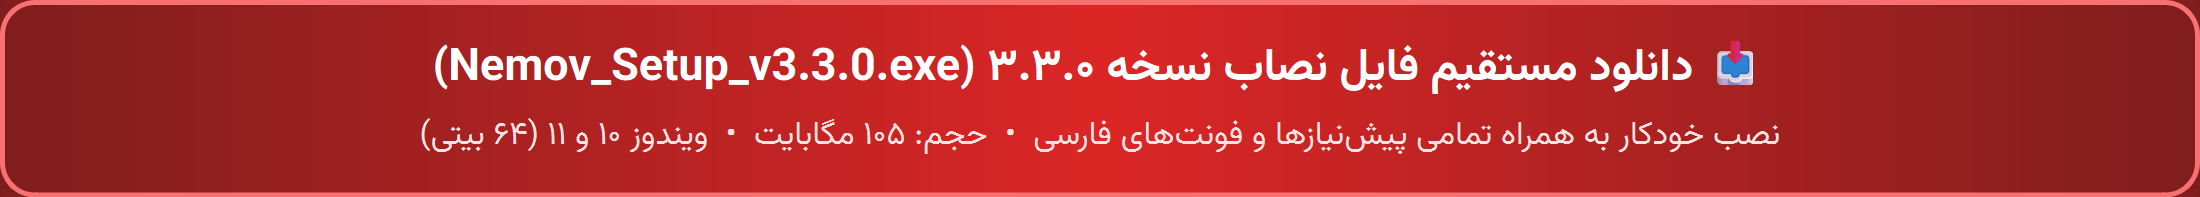
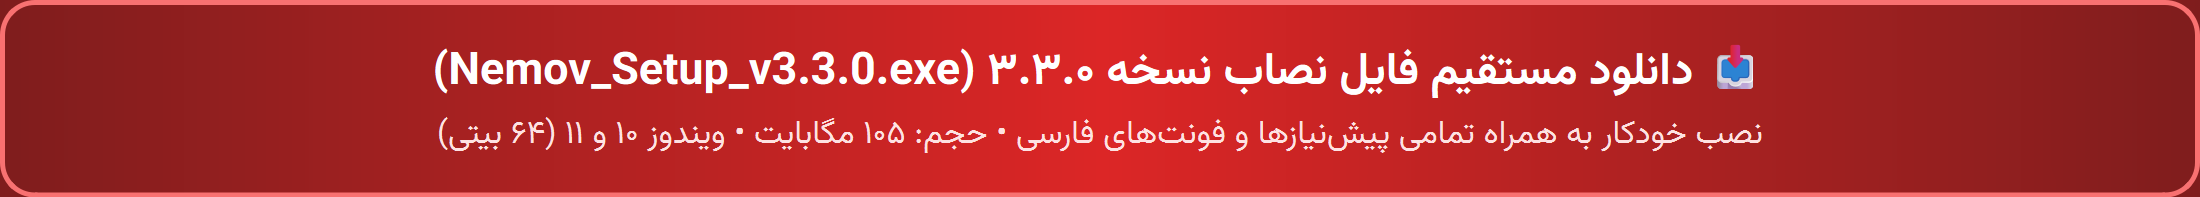
docs(readme): enforce strict right-to-left layout and alignment across all showcase cards

Changed region(s): [[0.1855, 0.2437, 0.8036, 0.4873], [0.1855, 0.6091, 0.8345, 0.7919]]

diff --git a/scripts/render_github_vazirmatn_cards.py b/scripts/render_github_vazirmatn_cards.py
@@ -50,6 +50,7 @@ def make_badge(text: str, bg: str, fg: str, border: str) -> QLabel:
 
 def make_section_header(title_text: str) -> QFrame:
     frame = QFrame()
+    frame.setLayoutDirection(Qt.LayoutDirection.RightToLeft)
     frame.setStyleSheet("""
         QFrame {
             background: transparent;
@@ -78,6 +79,7 @@ def make_section_header(title_text: str) -> QFrame:
 
 def make_feature_table(rows_data: list) -> QFrame:
     tbl = QFrame()
+    tbl.setLayoutDirection(Qt.LayoutDirection.RightToLeft)
     tbl.setObjectName("featTable")
     tbl.setStyleSheet("""
         QFrame#featTable {
@@ -92,6 +94,7 @@ def make_feature_table(rows_data: list) -> QFrame:
 
     # Header row
     hdr = QFrame()
+    hdr.setLayoutDirection(Qt.LayoutDirection.RightToLeft)
     hdr.setStyleSheet("""
         QFrame {
             background-color: #21262D;
@@ -119,6 +122,7 @@ def make_feature_table(rows_data: list) -> QFrame:
 
     for idx, (col1, col2) in enumerate(rows_data):
         row_f = QFrame()
+        row_f.setLayoutDirection(Qt.LayoutDirection.RightToLeft)
         is_last = (idx == len(rows_data) - 1)
         bg_col = "#161B22" if idx % 2 == 0 else "#13181E"
         b_bottom = "none" if is_last else "1px solid #262C36"
@@ -134,13 +138,15 @@ def make_feature_table(rows_data: list) -> QFrame:
         rlay.setContentsMargins(18, 14, 18, 14)
         rlay.setSpacing(16)
 
-        c1 = QLabel(col1)
+        c1 = QLabel()
+        c1.setText(f"<div dir='rtl' align='right' style='text-align: right;'>{col1.replace(chr(10), '<br/>')}</div>")
         c1.setFixedWidth(230)
         c1.setWordWrap(True)
         c1.setAlignment(Qt.AlignmentFlag.AlignRight | Qt.AlignmentFlag.AlignVCenter)
         c1.setStyleSheet(f"color: #FFFFFF; font-family: '{FONT_FAMILY}'; font-size: 13px; font-weight: bold; border: none; background: transparent;")
 
-        c2 = QLabel(col2)
+        c2 = QLabel()
+        c2.setText(f"<div dir='rtl' align='right' style='text-align: right;'>{col2}</div>")
         c2.setWordWrap(True)
         c2.setAlignment(Qt.AlignmentFlag.AlignRight | Qt.AlignmentFlag.AlignVCenter)
         c2.setStyleSheet(f"color: #D0D7DE; font-family: '{FONT_FAMILY}'; font-size: 13px; border: none; background: transparent;")
@@ -155,6 +161,7 @@ def make_feature_table(rows_data: list) -> QFrame:
 def build_download_button() -> QWidget:
     w = QFrame()
     w.setFixedSize(880, 84)
+    w.setLayoutDirection(Qt.LayoutDirection.RightToLeft)
     w.setObjectName("dlBtn")
     w.setStyleSheet("""
         QFrame#dlBtn {
@@ -165,14 +172,16 @@ def build_download_button() -> QWidget:
         }
     """)
     lay = QVBoxLayout(w)
-    lay.setContentsMargins(20, 12, 20, 12)
+    lay.setContentsMargins(24, 12, 24, 12)
     lay.setSpacing(4)
 
-    t1 = QLabel("📥 دانلود مستقیم فایل نصاب نسخه ۳.۳.۰ (Nemov_Setup_v3.3.0.exe)")
+    t1 = QLabel()
+    t1.setText("<div align='center'>📥 دانلود مستقیم فایل نصاب نسخه ۳.۳.۰ (Nemov_Setup_v3.3.0.exe)</div>")
     t1.setAlignment(Qt.AlignmentFlag.AlignCenter)
     t1.setStyleSheet(f"color: #FFFFFF; font-family: '{FONT_FAMILY}'; font-size: 18px; font-weight: bold; background: transparent; border: none;")
 
-    t2 = QLabel("نصب خودکار به همراه تمامی پیشنیازها و فونتهای فارسی  •  حجم: ۱۰۵ مگابایت  •  ویندوز ۱۰ و ۱۱ (۶۴ بیتی)")
+    t2 = QLabel()
+    t2.setText("<div align='center'>نصب خودکار به همراه تمامی پیشنیازها و فونتهای فارسی  •  حجم: ۱۰۵ مگابایت  •  ویندوز ۱۰ و ۱۱ (۶۴ بیتی)</div>")
     t2.setAlignment(Qt.AlignmentFlag.AlignCenter)
     t2.setStyleSheet(f"color: #FEE2E2; font-family: '{FONT_FAMILY}'; font-size: 12.5px; background: transparent; border: none;")
 
@@ -183,6 +192,7 @@ def build_download_button() -> QWidget:
 
 def build_hero_box(is_release: bool = False) -> QFrame:
     hero = QFrame()
+    hero.setLayoutDirection(Qt.LayoutDirection.RightToLeft)
     hero.setObjectName("heroBox")
     hero.setStyleSheet("""
         QFrame#heroBox {
@@ -196,36 +206,33 @@ def build_hero_box(is_release: bool = False) -> QFrame:
     vlay.setContentsMargins(24, 22, 24, 22)
     vlay.setSpacing(12)
 
-    lbl_title = QLabel("🏆 نرمافزار جامع مدیریت ورزشی و باشگاهی «نِمُو» (Nemov)")
-    lbl_title.setAlignment(Qt.AlignmentFlag.AlignCenter)
+    lbl_title = QLabel()
+    lbl_title.setText("<div dir='rtl' align='right' style='text-align: right;'>🏆 نرمافزار جامع مدیریت ورزشی و باشگاهی «نِمُو» (Nemov)</div>")
+    lbl_title.setAlignment(Qt.AlignmentFlag.AlignRight | Qt.AlignmentFlag.AlignVCenter)
     lbl_title.setStyleSheet(f"color: #FFFFFF; font-family: '{FONT_FAMILY}'; font-size: 22px; font-weight: bold; background: transparent; border: none;")
 
-    lbl_en = QLabel("Nemov Sports & Gym Management Suite — v3.3.0")
-    lbl_en.setAlignment(Qt.AlignmentFlag.AlignCenter)
-    lbl_en.setLayoutDirection(Qt.LayoutDirection.LeftToRight)
+    lbl_en = QLabel()
+    lbl_en.setText("<div dir='rtl' align='right' style='text-align: right;'>Nemov Sports & Gym Management Suite — v3.3.0</div>")
+    lbl_en.setAlignment(Qt.AlignmentFlag.AlignRight | Qt.AlignmentFlag.AlignVCenter)
     lbl_en.setStyleSheet(f"color: #F87171; font-family: '{FONT_FAMILY}'; font-size: 14px; font-weight: bold; background: transparent; border: none;")
 
-    lbl_desc = QLabel(
-        "یک دستیار همهفنحریف، مدرن و کاملاً فارسی برای مربیان حرفهای و مدیران باشگاههای ورزشی؛\n"
-        "مجهز به موتور ۱۷ پالت رنگی، تنظیمات لوگو و برندینگ، طراحی تخصصی تمرین و تغذیه، پیامک هوشمند و همگامسازی ابری"
-    )
-    lbl_desc.setAlignment(Qt.AlignmentFlag.AlignCenter)
+    lbl_desc = QLabel()
+    lbl_desc.setText("<div dir='rtl' align='right' style='text-align: right;'>یک دستیار همهفنحریف، مدرن و کاملاً فارسی برای مربیان حرفهای و مدیران باشگاههای ورزشی؛<br/>مجهز به موتور ۱۷ پالت رنگی، تنظیمات لوگو و برندینگ، طراحی تخصصی تمرین و تغذیه، پیامک هوشمند و همگامسازی ابری</div>")
+    lbl_desc.setAlignment(Qt.AlignmentFlag.AlignRight | Qt.AlignmentFlag.AlignVCenter)
     lbl_desc.setWordWrap(True)
     lbl_desc.setStyleSheet(f"color: #C9D1D9; font-family: '{FONT_FAMILY}'; font-size: 13.5px; background: transparent; border: none;")
 
-    # Row 1 of Badges
+    # Row 1 of Badges (Right-aligned)
     row1 = QHBoxLayout()
     row1.setSpacing(10)
-    row1.addStretch()
     row1.addWidget(make_badge("🔥 نسخه ۳.۳.۰ (Latest Release)", "#7F1D1D", "#FECACA", "#DC2626"))
     row1.addWidget(make_badge("💻 ویندوز ۱۰ و ۱۱ (۶۴ بیتی)", "#1E3A8A", "#BFDBFE", "#3B82F6"))
     row1.addWidget(make_badge("🎨 ۱۷ پالت رنگی دارک و لایت", "#4C1D95", "#DDD6FE", "#8B5CF6"))
     row1.addStretch()
 
-    # Row 2 of Badges
+    # Row 2 of Badges (Right-aligned)
     row2 = QHBoxLayout()
     row2.setSpacing(10)
-    row2.addStretch()
     row2.addWidget(make_badge("📩 سامانه هوشمند پیامک فعال", "#047857", "#A7F3D0", "#10B981"))
     row2.addWidget(make_badge("☁ پشتیبانگیری ابری و ایمیل فعال", "#7C2D12", "#FED7AA", "#F97316"))
     row2.addWidget(make_badge("✨ رابط کاربری ۱۰۰٪ فارسی و واکنشگرا", "#164E63", "#A5F3FC", "#06B6D4"))
@@ -242,6 +249,7 @@ def build_hero_box(is_release: bool = False) -> QFrame:
 
 def build_footer_box() -> QFrame:
     ftr = QFrame()
+    ftr.setLayoutDirection(Qt.LayoutDirection.RightToLeft)
     ftr.setStyleSheet("""
         QFrame {
             background: transparent;
@@ -252,14 +260,16 @@ def build_footer_box() -> QFrame:
     """)
     lay = QVBoxLayout(ftr)
     lay.setContentsMargins(0, 12, 0, 4)
-    lay.setSpacing(4)
+    lay.setSpacing(6)
 
-    l1 = QLabel("طراحی و توسعه جهت ارتقای سطح حرفهای مربیان و باشگاههای ورزشی ایران")
-    l1.setAlignment(Qt.AlignmentFlag.AlignCenter)
+    l1 = QLabel()
+    l1.setText("<div dir='rtl' align='right' style='text-align: right;'>طراحی و توسعه جهت ارتقای سطح حرفهای مربیان و باشگاههای ورزشی ایران</div>")
+    l1.setAlignment(Qt.AlignmentFlag.AlignRight | Qt.AlignmentFlag.AlignVCenter)
     l1.setStyleSheet(f"color: #C9D1D9; font-family: '{FONT_FAMILY}'; font-size: 13px; font-weight: bold; border: none;")
 
-    l2 = QLabel("© 2026 Abolfazl Samadi — تمامی حقوق این نرمافزار برای نِمُو (Nemov) محفوظ است.")
-    l2.setAlignment(Qt.AlignmentFlag.AlignCenter)
+    l2 = QLabel()
+    l2.setText("<div dir='rtl' align='right' style='text-align: right;'>تمامی حقوق این نرمافزار برای نِمُو (Nemov) محفوظ است — © ۲۰۲۶ ابوالفضل صمدی</div>")
+    l2.setAlignment(Qt.AlignmentFlag.AlignRight | Qt.AlignmentFlag.AlignVCenter)
     l2.setStyleSheet(f"color: #8B949E; font-family: '{FONT_FAMILY}'; font-size: 12px; border: none;")
 
     lay.addWidget(l1)
@@ -289,6 +299,7 @@ HIGHLIGHTS_ROWS_V3_3_0 = [
 
 def build_steps_box() -> QFrame:
     box = QFrame()
+    box.setLayoutDirection(Qt.LayoutDirection.RightToLeft)
     box.setObjectName("stepsBox")
     box.setStyleSheet("""
         QFrame#stepsBox {
@@ -308,7 +319,8 @@ def build_steps_box() -> QFrame:
         "۳. در صورت ارتقا از نسخههای پیشین، کلیه اطلاعات، پروندهها، تنظیمات، پایگاه داده و لایسنس سیستم کاملاً حفظ خواهد شد.",
     ]
     for s in steps:
-        lbl = QLabel(s)
+        lbl = QLabel()
+        lbl.setText(f"<div dir='rtl' align='right' style='text-align: right; line-height: 1.5;'>{s}</div>")
         lbl.setWordWrap(True)
         lbl.setAlignment(Qt.AlignmentFlag.AlignRight | Qt.AlignmentFlag.AlignVCenter)
         lbl.setStyleSheet(f"color: #E6EDF3; font-family: '{FONT_FAMILY}'; font-size: 13px; border: none; background: transparent;")
@@ -318,6 +330,7 @@ def build_steps_box() -> QFrame:
 
 def build_release_showcase() -> QWidget:
     root = QFrame()
+    root.setLayoutDirection(Qt.LayoutDirection.RightToLeft)
     root.setFixedWidth(960)
     root.setObjectName("rootCard")
     root.setStyleSheet("""
@@ -332,7 +345,7 @@ def build_release_showcase() -> QWidget:
     vlay.setSpacing(16)
 
     vlay.addWidget(build_hero_box(is_release=True))
-    vlay.addWidget(make_section_header("🔥 ویژگیها و تغییرات کلیدی نسخه ۳.۳.۰"))
+    vlay.addWidget(make_section_header("🔥 تازههای نسخه ۳.۳.۰ (Release Highlights)"))
     vlay.addWidget(make_feature_table(HIGHLIGHTS_ROWS_V3_3_0))
     vlay.addWidget(make_section_header("📥 راهنمای دانلود و نصب سریع (بدون نیاز به پیشنیاز)"))
     vlay.addWidget(build_steps_box())
@@ -343,6 +356,7 @@ def build_release_showcase() -> QWidget:
 
 def make_info_card(title: str, bullets: list) -> QFrame:
     card = QFrame()
+    card.setLayoutDirection(Qt.LayoutDirection.RightToLeft)
     card.setObjectName("infoCard")
     card.setStyleSheet("""
         QFrame#infoCard {
@@ -355,7 +369,8 @@ def make_info_card(title: str, bullets: list) -> QFrame:
     vlay.setContentsMargins(18, 16, 18, 16)
     vlay.setSpacing(10)
 
-    lbl_t = QLabel(title)
+    lbl_t = QLabel()
+    lbl_t.setText(f"<div dir='rtl' align='right' style='text-align: right;'>{title}</div>")
     lbl_t.setAlignment(Qt.AlignmentFlag.AlignRight | Qt.AlignmentFlag.AlignVCenter)
     lbl_t.setStyleSheet(f"""
         color: #FCA5A5;
@@ -369,7 +384,8 @@ def make_info_card(title: str, bullets: list) -> QFrame:
     vlay.addWidget(lbl_t)
 
     for b in bullets:
-        lbl_b = QLabel(f"•  {b}")
+        lbl_b = QLabel()
+        lbl_b.setText(f"<div dir='rtl' align='right' style='text-align: right; line-height: 1.45;'>•  {b}</div>")
         lbl_b.setWordWrap(True)
         lbl_b.setAlignment(Qt.AlignmentFlag.AlignRight | Qt.AlignmentFlag.AlignTop)
         lbl_b.setStyleSheet(f"color: #D0D7DE; font-family: '{FONT_FAMILY}'; font-size: 12.8px; border: none; background: transparent;")
@@ -381,6 +397,7 @@ def make_info_card(title: str, bullets: list) -> QFrame:
 
 def build_readme_showcase() -> QWidget:
     root = QFrame()
+    root.setLayoutDirection(Qt.LayoutDirection.RightToLeft)
     root.setFixedWidth(960)
     root.setObjectName("rootCard")
     root.setStyleSheet("""
@@ -398,6 +415,7 @@ def build_readme_showcase() -> QWidget:
 
     # Intro callout box
     intro = QFrame()
+    intro.setLayoutDirection(Qt.LayoutDirection.RightToLeft)
     intro.setObjectName("introBox")
     intro.setStyleSheet("""
         QFrame#introBox {
@@ -410,13 +428,12 @@ def build_readme_showcase() -> QWidget:
     ilay = QVBoxLayout(intro)
     ilay.setContentsMargins(20, 16, 20, 16)
     ilay.setSpacing(6)
-    it1 = QLabel("🌟 چرا نرمافزار ورزشی «نِمُو» (Nemov)؟")
+    it1 = QLabel()
+    it1.setText("<div dir='rtl' align='right' style='text-align: right;'>🌟 چرا نرمافزار ورزشی «نِمُو» (Nemov)؟</div>")
     it1.setAlignment(Qt.AlignmentFlag.AlignRight)
     it1.setStyleSheet(f"color: #FFFFFF; font-family: '{FONT_FAMILY}'; font-size: 15.5px; font-weight: bold; border: none; background: transparent;")
-    it2 = QLabel(
-        "نرمافزار نِمُو (Nemov) با درک عمیق نیازهای روزمره مربیان بدنسازی و فیتنس طراحی شده است؛ محیطی فوقالعاده مدرن با ۱۷ تم دارک و لایت، "
-        "چیدمان کاملاً راستبهچپ (RTL) و سرعت اجرای لحظهای که به صورت ۱۰۰٪ آفلاین و بدون نیاز به اینترنت کار میکند و در عین حال به سرور ابری، سامانه پیامک و بانک جامع حرکات ورزشی و تغذیه مجهز است."
-    )
+    it2 = QLabel()
+    it2.setText("<div dir='rtl' align='right' style='text-align: right; line-height: 1.55;'>نرمافزار نِمُو (Nemov) با درک عمیق نیازهای روزمره مربیان بدنسازی و فیتنس طراحی شده است؛ محیطی فوقالعاده مدرن با ۱۷ تم دارک و لایت، چیدمان کاملاً راستبهچپ (RTL) و سرعت اجرای لحظهای که به صورت ۱۰۰٪ آفلاین و بدون نیاز به اینترنت کار میکند و در عین حال به سرور ابری، سامانه پیامک و بانک جامع حرکات ورزشی و تغذیه مجهز است.</div>")
     it2.setWordWrap(True)
     it2.setAlignment(Qt.AlignmentFlag.AlignRight)
     it2.setStyleSheet(f"color: #D0D7DE; font-family: '{FONT_FAMILY}'; font-size: 13px; border: none; background: transparent;")
@@ -437,7 +454,7 @@ def build_readme_showcase() -> QWidget:
         "مدیریت مدارک پزشکی چندصفحهای (PDF و تصویر) با قابلیت زوم و چرخش صفحات.",
     ]), 0, 0)
     grid.addWidget(make_info_card("۲. 🥗 مهندسی تغذیه، رژیم ایرانی و BMR / TDEE", [
-        "محاسبه خودکار متابولیسم پایه (BMR) و کالری تثبیت روزانه (TDEE) با فرمول Mifflin-St Jeor.",
+        "محاسبه خودکار متابولیسم پایه (BMR) و کالری تثبیت روزانه (TDEE) با فرمول علمی.",
         "محاسبه لحظهای گرم و درصد پروتئین، کربوهیدرات و چربی بر اساس هدف شاگرد.",
         "بانک جامع غذاهای ایرانی و مکملها با ارزش غذایی دقیق و امکان افزودن خوراکی جدید.",
         "ذخیره و بارگذاری آنی الگوهای غذایی پرتکرار در بانک الگوها.",
@@ -461,18 +478,16 @@ def build_readme_showcase() -> QWidget:
 
     vlay.addWidget(make_section_header("🛠 معماری و تکنولوژیهای بهکاررفته"))
     
-    # Row 1 of Tech Stack
+    # Row 1 of Tech Stack (Right-aligned)
     trow1 = QHBoxLayout()
     trow1.setSpacing(8)
-    trow1.addStretch()
     for t in ["Python 3.10+", "PyQt6 (RTL & High-DPI)", "SQLite 3 + SQLAlchemy", "ReportLab PDF", "OpenPyXL Excel"]:
         trow1.addWidget(make_badge(t, "#161B22", "#C9D1D9", "#30363D"))
     trow1.addStretch()
 
-    # Row 2 of Tech Stack
+    # Row 2 of Tech Stack (Right-aligned)
     trow2 = QHBoxLayout()
     trow2.setSpacing(8)
-    trow2.addStretch()
     for t in ["SMS.ir REST API", "OpenCV & PyMuPDF", "Cloudflare Workers Sync", "PyInstaller + NSIS Installer"]:
         trow2.addWidget(make_badge(t, "#161B22", "#C9D1D9", "#30363D"))
     trow2.addStretch()
@@ -515,4 +530,4 @@ save_widget_png(rel_w, OUT_DIR / "release_v3_3_0_showcase.png", BRAIN_DIR / "qa_
 rdm_w = build_readme_showcase()
 save_widget_png(rdm_w, OUT_DIR / "readme_full_showcase.png", BRAIN_DIR / "qa_readme_full_showcase.png")
 
-print("ALL ASSETS RENDERED SUCCESSFULLY FOR NEMOV v3.3.0!")
+print("ALL ASSETS RENDERED WITH FULL RIGHT-TO-LEFT ALIGNMENT!")

diff --git a/TEST_READY.md b/TEST_READY.md
@@ -1,6 +1,6 @@
 # Test Readiness & E2E Verification Report (`TEST_READY.md`)
 
-- **Timestamp**: 2026-10-11 15:31:12 UTC
+- **Timestamp**: 2026-10-11 15:45:27 UTC
 - **Project**: Nemov Rebranding, Multi-Theme Engine & Appearance Settings (v3.3.0)
 - **Suite Path**: `scripts/qa_nemov_e2e_test.py`
 - **Execution Command**: `.\venv\Scripts\python.exe scripts/qa_nemov_e2e_test.py`
@@ -25,25 +25,25 @@
 
 | Tier | Test ID | Feature / Contract | Milestone | Status | Duration | Details / Diagnostics |
 |---|---|---|---|---|---|---|
-| Tier 1 | `T1.1_CONFIG_CONSTANTS` | Branding Constants in config.py | M1 | **✅ PASS** | 159.5ms | All core branding constants match official specifications. |
-| Tier 1 | `T1.2_WINDOW_TITLES` | Window & Sidebar Titles Rebranding | M1 | **✅ PASS** | 0.6ms | Window titles in MainWindow, LoginView, and Sidebar properly rebranded. |
+| Tier 1 | `T1.1_CONFIG_CONSTANTS` | Branding Constants in config.py | M1 | **✅ PASS** | 169.3ms | All core branding constants match official specifications. |
+| Tier 1 | `T1.2_WINDOW_TITLES` | Window & Sidebar Titles Rebranding | M1 | **✅ PASS** | 0.7ms | Window titles in MainWindow, LoginView, and Sidebar properly rebranded. |
 | Tier 1 | `T1.3_LOGO_FILES_LAYERS` | Multi-Resolution Logo & ICO Files | M1 | **✅ PASS** | 0.0ms | nemov.ico contains all 7 required layers [(16, 16), (24, 24), (32, 32), (48, 48), (64, 64), (128, 128), (256, 256)] and 512x512 display PNG. |
 | Tier 1 | `T1.4_APP_USER_MODEL_ID` | Windows AppUserModelID Registration | M1 | **✅ PASS** | 0.3ms | AppUserModelID registered with 'nemov.sports.management.desktop.v3' for crisp Windows taskbar pinning. |
-| Tier 1 | `T1.5_SETTINGS_TABLE_KEYS` | Database SystemSetting Keys Support | M2 | **✅ PASS** | 283.6ms | SystemSetting key-value table successfully supports all keys: ['club_name', 'club_phone', 'club_address', 'club_logo_path', 'app_theme'] |
-| Tier 1 | `T1.6_BRANDING_SERVICE` | BrandingService Interface Contract | M2 | **✅ PASS** | 15.9ms | BrandingService implements all required interface contracts. |
-| Tier 1 | `T1.7_THEME_MANAGER_PALETTES` | ThemeManager 17-Palette Engine | M3 | **✅ PASS** | 6.5ms | ThemeManager contains all 17 palettes (12 dark, 5 light) with full token mappings. |
-| Tier 1 | `T1.8_PDF_SIGNATURE_HEADER` | Official Nemov PDF Footer Signature | M3 | **✅ PASS** | 118.3ms | Official Nemov footer signature verified on PDF canvas at y=7. |
+| Tier 1 | `T1.5_SETTINGS_TABLE_KEYS` | Database SystemSetting Keys Support | M2 | **✅ PASS** | 420.2ms | SystemSetting key-value table successfully supports all keys: ['club_name', 'club_phone', 'club_address', 'club_logo_path', 'app_theme'] |
+| Tier 1 | `T1.6_BRANDING_SERVICE` | BrandingService Interface Contract | M2 | **✅ PASS** | 16.8ms | BrandingService implements all required interface contracts. |
+| Tier 1 | `T1.7_THEME_MANAGER_PALETTES` | ThemeManager 17-Palette Engine | M3 | **✅ PASS** | 6.9ms | ThemeManager contains all 17 palettes (12 dark, 5 light) with full token mappings. |
+| Tier 1 | `T1.8_PDF_SIGNATURE_HEADER` | Official Nemov PDF Footer Signature | M3 | **✅ PASS** | 94.6ms | Official Nemov footer signature verified on PDF canvas at y=7. |
 | Tier 1 | `T1.9_SMS_DYNAMIC_CLUB` | Dynamic SMS #GYM# Club Name Injection | M3 | **✅ PASS** | 0.3ms | SMS service contains dynamic club name resolution for #GYM# tag. |
-| Tier 1 | `T1.10_CLOUDFLARE_WORKER` | Cloudflare Landing Page Rebranding | M4 | **✅ PASS** | 1.4ms | Cloudflare Worker landing page rebranded to Nemov v3.3.0 with Yalda partner card fully preserved. |
-| Tier 1 | `T1.11_PACKAGING_SPECS` | NSIS Installer & PyInstaller Spec | M1 | **✅ PASS** | 0.2ms | NSIS installer and PyInstaller spec properly configured for Nemov v3.3.0. |
-| Tier 2 | `T2.1_EMPTY_CLUB_NAME_FALLBACK` | Empty Club Name Fallback | M2 | **✅ PASS** | 11.8ms | All empty/whitespace inputs correctly fallback to 'نرمافزار مدیریت ورزشی نِمُو'. |
+| Tier 1 | `T1.10_CLOUDFLARE_WORKER` | Cloudflare Landing Page Rebranding | M4 | **✅ PASS** | 1.5ms | Cloudflare Worker landing page rebranded to Nemov v3.3.0 with Yalda partner card fully preserved. |
+| Tier 1 | `T1.11_PACKAGING_SPECS` | NSIS Installer & PyInstaller Spec | M1 | **✅ PASS** | 0.3ms | NSIS installer and PyInstaller spec properly configured for Nemov v3.3.0. |
+| Tier 2 | `T2.1_EMPTY_CLUB_NAME_FALLBACK` | Empty Club Name Fallback | M2 | **✅ PASS** | 11.0ms | All empty/whitespace inputs correctly fallback to 'نرمافزار مدیریت ورزشی نِمُو'. |
 | Tier 2 | `T2.2_MISSING_LOGO_FALLBACK` | Missing Custom Logo Fallback | M2 | **✅ PASS** | 6.4ms | Non-existent custom logo safely fell back to existing default logo: C:\Users\user\.gemini\antigravity\scratch\yalda_gym_app\resources\images\nemov_logo.png |
-| Tier 2 | `T2.3_INVALID_THEME_FALLBACK` | Invalid Theme ID Fallback | M3 | **✅ PASS** | 5.8ms | Invalid theme ID handled safely without crashing. Active theme: crimson_fury |
-| Tier 2 | `T2.4_RESOLUTIONS_GEOMETRY` | Extreme Resolutions 1024x768 vs 1920x1080 | M2 | **✅ PASS** | 198.5ms | UI layouts successfully evaluated at 1024x768 and 1920x1080 without clipping or zero-rects. |
-| Tier 3 | `T3.1_THEME_PDF_ACCENT` | Theme Switching -> PDF Top Bar Accent Reflection | M3 | **✅ PASS** | 253.5ms | PDF generator top bar dynamically reflected theme accent: Royal Gold -> Color(.831373,.686275,.215686,1), Neon -> Color(.062745,.72549,.505882,1) |
-| Tier 3 | `T3.2_LOGO_UPLOAD_RESET_ROUNDTRIP` | Logo Upload -> PDF Watermark -> Reset Round-Trip | M2/M3 | **✅ PASS** | 25.1ms | Upload -> Active -> PDF Reflection -> Reset to Nemov logo completed full round-trip. |
-| Tier 3 | `T3.3_CLUB_INFO_SMS_FORMATTING` | Club Info -> SMS #GYM# Replacement | M3 | **✅ PASS** | 6.3ms | Dynamic club name 'باشگاه بدنسازی یلدا' verified across all 5 SMS templates. |
-| Tier 4 | `T4.1_TRAINER_WORKFLOW_E2E` | Complete Trainer Workflow E2E | M1-M4 | **✅ PASS** | 133.4ms | Complete real-world trainer workflow successfully executed end-to-end with 100% contract compliance. |
+| Tier 2 | `T2.3_INVALID_THEME_FALLBACK` | Invalid Theme ID Fallback | M3 | **✅ PASS** | 5.7ms | Invalid theme ID handled safely without crashing. Active theme: crimson_fury |
+| Tier 2 | `T2.4_RESOLUTIONS_GEOMETRY` | Extreme Resolutions 1024x768 vs 1920x1080 | M2 | **✅ PASS** | 200.2ms | UI layouts successfully evaluated at 1024x768 and 1920x1080 without clipping or zero-rects. |
+| Tier 3 | `T3.1_THEME_PDF_ACCENT` | Theme Switching -> PDF Top Bar Accent Reflection | M3 | **✅ PASS** | 247.3ms | PDF generator top bar dynamically reflected theme accent: Royal Gold -> Color(.831373,.686275,.215686,1), Neon -> Color(.062745,.72549,.505882,1) |
+| Tier 3 | `T3.2_LOGO_UPLOAD_RESET_ROUNDTRIP` | Logo Upload -> PDF Watermark -> Reset Round-Trip | M2/M3 | **✅ PASS** | 22.9ms | Upload -> Active -> PDF Reflection -> Reset to Nemov logo completed full round-trip. |
+| Tier 3 | `T3.3_CLUB_INFO_SMS_FORMATTING` | Club Info -> SMS #GYM# Replacement | M3 | **✅ PASS** | 6.2ms | Dynamic club name 'باشگاه بدنسازی یلدا' verified across all 5 SMS templates. |
+| Tier 4 | `T4.1_TRAINER_WORKFLOW_E2E` | Complete Trainer Workflow E2E | M1-M4 | **✅ PASS** | 137.2ms | Complete real-world trainer workflow successfully executed end-to-end with 100% contract compliance. |
 
 ---
 
